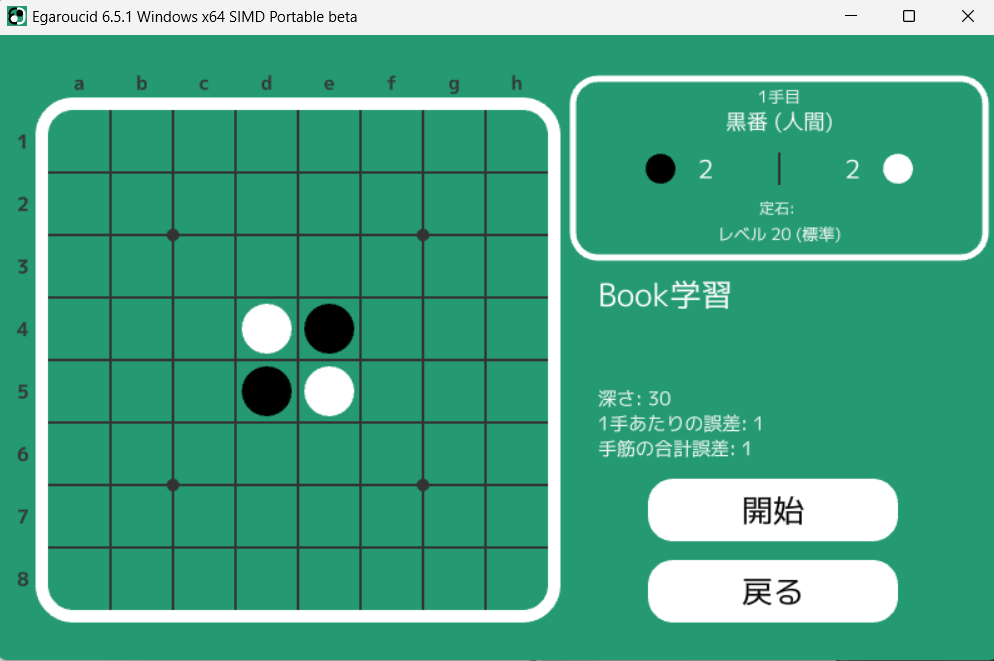
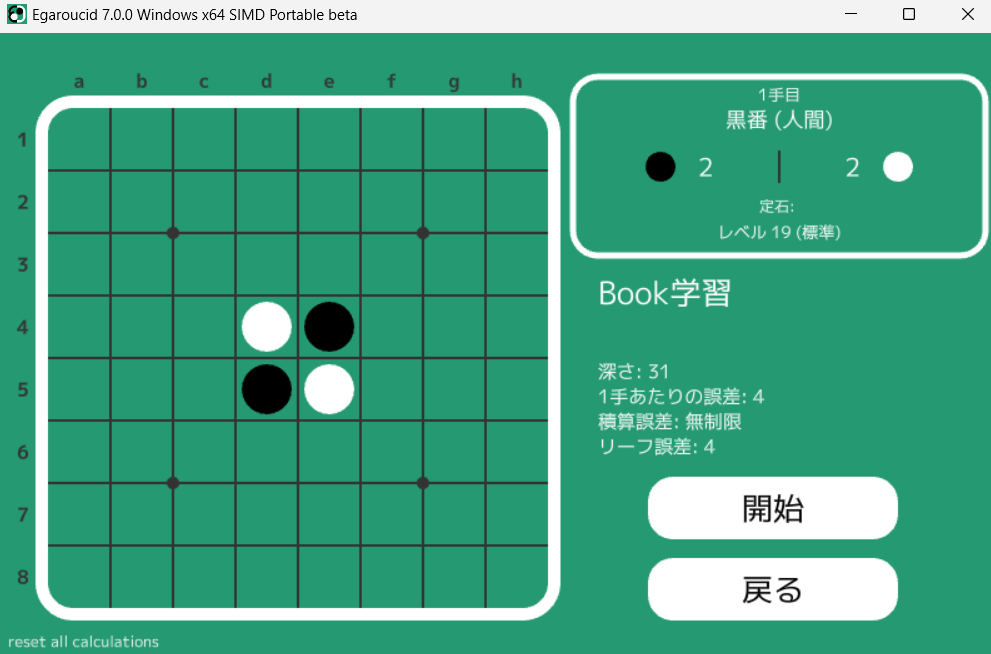
update usage

diff --git a/web_resources/ja/usage/index.md b/web_resources/ja/usage/index.md
@@ -850,7 +850,7 @@ Egaroucidでは自動でbookを操作する機能(自動学習、自動削減な
 
 リーフ誤差$E_{\mathrm{leaf}}$は、bookにすでに登録されている局面の値に対して$E_{\mathrm{leaf}}$以下の石損をしているリーフのみを探索するという意味です。
 
-なお、この設定にはチェックボックスがついています。チェックを外すとその項目が無制限として計算されます。
+なお、この設定にはチェックボックスがついています。チェックを外すとその項目が無制限として計算されます(Infと表示されます)。
 
 <div class="centering_box">
     <img class="pic2" src="img/book_settings.png">
